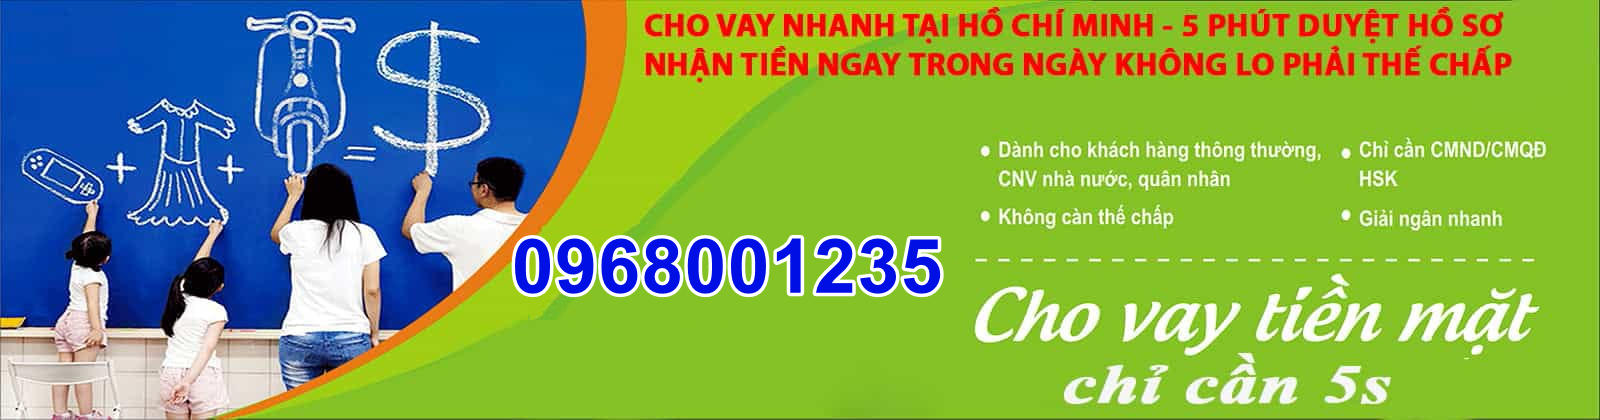
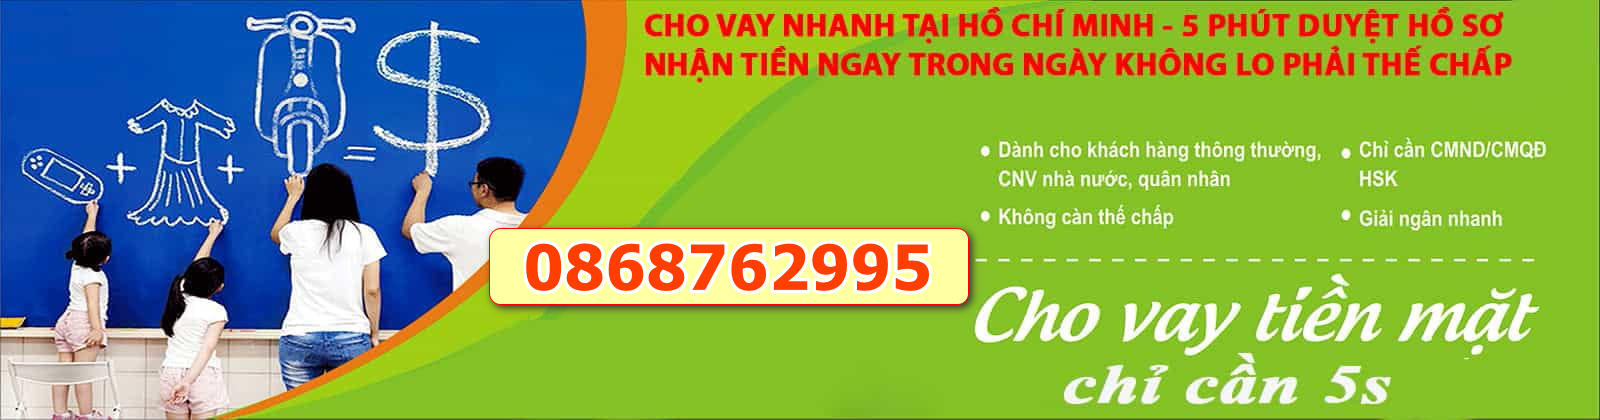
u

Changed region(s): [[0.2812, 0.5262, 0.625, 0.7429]]

diff --git a/cmnd.html b/cmnd.html
@@ -86,7 +86,7 @@ height="0" width="0" style="display:none;visibility:hidden"></iframe></noscript>
 
                             <div class="hotline-top">
 
-                                Hotline: <a  href="tel:+84968001235">0968001235</a>
+                                Hotline: <a  href="tel:+84868762995">0868762995</a>
 
 
 
@@ -1464,7 +1464,7 @@ height="0" width="0" style="display:none;visibility:hidden"></iframe></noscript>
 
                     <h2 class="title-box">
                        
-                        <a style="color:#f3640a; font-size:24px;"  href="tel:+84968001235">0968001235</a>
+                        <a style="color:#f3640a; font-size:24px;"  href="tel:+84868762995">0868762995</a>
 
                     </h2>
 
@@ -1506,7 +1506,7 @@ height="0" width="0" style="display:none;visibility:hidden"></iframe></noscript>
 <div class="footer">
 
     <center>
-        <a href="tel:+84968001235" style="font-size: 45px;color: #fd0000;"><strong>0968001235</strong></a>
+        <a href="tel:+84868762995" style="font-size: 45px;color: #fd0000;"><strong>0868762995</strong></a>
       <br />
       <a href="tel:+84789349998" style="font-size: 45px;color: #fd0000;"><strong>0789349998</strong></a>
     </center>   
@@ -1525,7 +1525,7 @@ height="0" width="0" style="display:none;visibility:hidden"></iframe></noscript>
 
             <div id="Module73">Cho vay tiền nhanh không cần thế chấp tại TP.Hồ Chí Minh<br>
 
-                Điện thoại: <a href="tel:+84968001235"><strong>0968001235</strong></a> 
+                Điện thoại: <a href="tel:+84868762995"><strong>0868762995</strong></a> 
 
                 <br>Cho vay tiền nhanh không cần thế chấp tại TP.Hồ Chí Minh chỉ cần 5s là bạn có ngay tiền mặt không tốn thời gian
 
@@ -1550,7 +1550,7 @@ height="0" width="0" style="display:none;visibility:hidden"></iframe></noscript>
 
 
     <i class="fa fa-phone"></i> 
-    <a  href="tel:+84968001235"><strong>0968001235</strong></a>
+    <a  href="tel:+84868762995"><strong>0868762995</strong></a>
 
    
 
@@ -1602,7 +1602,7 @@ height="0" width="0" style="display:none;visibility:hidden"></iframe></noscript>
 
                       <div id="Module79">
 
-                         <p style="text-align:start">Quý khách có nhu cầu vay vốn, tín dụng xin liên hệ Hotline: <a href="tel:+84968001235"><strong>0968001235</strong></a> | <a href="tel:+84968001235"><strong>0968001235</strong></a> hoặc điền thông tin vào form dưới đây nhé.</p>
+                         <p style="text-align:start">Quý khách có nhu cầu vay vốn, tín dụng xin liên hệ Hotline: <a href="tel:+84868762995"><strong>0868762995</strong></a> | <a href="tel:+84868762995"><strong>0868762995</strong></a> hoặc điền thông tin vào form dưới đây nhé.</p>
 
                      </div>
 
@@ -1666,7 +1666,7 @@ height="0" width="0" style="display:none;visibility:hidden"></iframe></noscript>
 
             </div> -->
 
-            <div class="Hotline-popup"><span><a href="tel:+84968001235"><strong>0968001235</strong></a>  <a href="tel:+84968001235"><strong>0968001235</strong></a></span></div>
+            <div class="Hotline-popup"><span><a href="tel:+84868762995"><strong>0868762995</strong></a>  <a href="tel:+84868762995"><strong>0868762995</strong></a></span></div>
 
         </div>
 

diff --git a/lien-he.html b/lien-he.html
@@ -86,7 +86,7 @@ height="0" width="0" style="display:none;visibility:hidden"></iframe></noscript>
 
                             <div class="hotline-top">
 
-                                Hotline: <a href="tel:+84968001235">0968001235</a>
+                                Hotline: <a href="tel:+84868762995">0868762995</a>
 
 
 
@@ -1464,7 +1464,7 @@ height="0" width="0" style="display:none;visibility:hidden"></iframe></noscript>
 
                     <h2 class="title-box">
                        
-                        <a style="color:#f3640a; font-size:24px;" href="tel:+84968001235">0968001235</a>
+                        <a style="color:#f3640a; font-size:24px;" href="tel:+84868762995">0868762995</a>
 
                     </h2>
 
@@ -1506,7 +1506,7 @@ height="0" width="0" style="display:none;visibility:hidden"></iframe></noscript>
 <div class="footer">
 
      <center>
-        <a href="tel:+84968001235" style="font-size: 45px;color: #fd0000;"><strong>0968001235</strong></a>
+        <a href="tel:+84868762995" style="font-size: 45px;color: #fd0000;"><strong>0868762995</strong></a>
       <br />
       <a href="tel:+84789349998" style="font-size: 45px;color: #fd0000;"><strong>0789349998</strong></a>
     </center>   
@@ -1525,7 +1525,7 @@ height="0" width="0" style="display:none;visibility:hidden"></iframe></noscript>
 
             <div id="Module73">Cho vay tiền nhanh không cần thế chấp tại TP.Hồ Chí Minh<br>
 
-                Điện thoại: <a href="tel:+84968001235"><strong>0968001235</strong></a> 
+                Điện thoại: <a href="tel:+84868762995"><strong>0868762995</strong></a> 
 
                 <br>Cho vay tiền nhanh không cần thế chấp tại TP.Hồ Chí Minh chỉ cần 5s là bạn có ngay tiền mặt không tốn thời gian
 
@@ -1550,7 +1550,7 @@ height="0" width="0" style="display:none;visibility:hidden"></iframe></noscript>
 
 
     <i class="fa fa-phone"></i> 
-    <a href="tel:+84968001235"><strong>0968001235</strong></a>
+    <a href="tel:+84868762995"><strong>0868762995</strong></a>
 
    
 
@@ -1601,7 +1601,7 @@ height="0" width="0" style="display:none;visibility:hidden"></iframe></noscript>
 
                       <div id="Module79">
 
-                         <p style="text-align:start">Quý khách có nhu cầu vay vốn, tín dụng xin liên hệ Hotline: <a href="tel:+84968001235"><strong>0968001235</strong></a> | <a href="tel:+84968001235"><strong>0968001235</strong></a> hoặc điền thông tin vào form dưới đây nhé.</p>
+                         <p style="text-align:start">Quý khách có nhu cầu vay vốn, tín dụng xin liên hệ Hotline: <a href="tel:+84868762995"><strong>0868762995</strong></a> | <a href="tel:+84868762995"><strong>0868762995</strong></a> hoặc điền thông tin vào form dưới đây nhé.</p>
 
                      </div>
 
@@ -1665,7 +1665,7 @@ height="0" width="0" style="display:none;visibility:hidden"></iframe></noscript>
 
             </div> -->
 
-            <div class="Hotline-popup"><span><a href="tel:+84968001235"><strong>0968001235</strong></a>  <a href="tel:+84968001235"><strong>0968001235</strong></a></span></div>
+            <div class="Hotline-popup"><span><a href="tel:+84868762995"><strong>0868762995</strong></a>  <a href="tel:+84868762995"><strong>0868762995</strong></a></span></div>
 
         </div>
 

diff --git a/so-ho-khau.html b/so-ho-khau.html
@@ -82,7 +82,7 @@ height="0" width="0" style="display:none;visibility:hidden"></iframe></noscript>
 
                             <div class="hotline-top">
 
-                                Hotline: <a href="tel:+84968001235">0968001235</a>
+                                Hotline: <a href="tel:+84868762995">0868762995</a>
 
 
 
@@ -1460,7 +1460,7 @@ height="0" width="0" style="display:none;visibility:hidden"></iframe></noscript>
 
                     <h2 class="title-box">
                        
-                        <a style="color:#f3640a; font-size:24px;" href="tel:+84968001235">0968001235</a>
+                        <a style="color:#f3640a; font-size:24px;" href="tel:+84868762995">0868762995</a>
 
                     </h2>
 
@@ -1502,7 +1502,7 @@ height="0" width="0" style="display:none;visibility:hidden"></iframe></noscript>
 <div class="footer">
 
      <center>
-        <a href="tel:+84968001235" style="font-size: 45px;color: #fd0000;"><strong>0968001235</strong></a>
+        <a href="tel:+84868762995" style="font-size: 45px;color: #fd0000;"><strong>0868762995</strong></a>
       <br />
       <a href="tel:+84789349998" style="font-size: 45px;color: #fd0000;"><strong>0789349998</strong></a>
     </center>   
@@ -1521,7 +1521,7 @@ height="0" width="0" style="display:none;visibility:hidden"></iframe></noscript>
 
             <div id="Module73">Cho vay tiền nhanh không cần thế chấp tại TP.Hồ Chí Minh<br>
 
-                Điện thoại: <a href="tel:+84968001235"><strong>0968001235</strong></a> 
+                Điện thoại: <a href="tel:+84868762995"><strong>0868762995</strong></a> 
 
                 <br>Cho vay tiền nhanh không cần thế chấp tại TP.Hồ Chí Minh chỉ cần 5s là bạn có ngay tiền mặt không tốn thời gian
 
@@ -1546,7 +1546,7 @@ height="0" width="0" style="display:none;visibility:hidden"></iframe></noscript>
 
 
     <i class="fa fa-phone"></i> 
-    <a href="tel:+84968001235"><strong>0968001235</strong></a>
+    <a href="tel:+84868762995"><strong>0868762995</strong></a>
 
    
 
@@ -1598,7 +1598,7 @@ height="0" width="0" style="display:none;visibility:hidden"></iframe></noscript>
 
                       <div id="Module79">
 
-                         <p style="text-align:start">Quý khách có nhu cầu vay vốn, tín dụng xin liên hệ Hotline: <a href="tel:+84968001235"><strong>0968001235</strong></a> | <a href="tel:+84968001235"><strong>0968001235</strong></a> hoặc điền thông tin vào form dưới đây nhé.</p>
+                         <p style="text-align:start">Quý khách có nhu cầu vay vốn, tín dụng xin liên hệ Hotline: <a href="tel:+84868762995"><strong>0868762995</strong></a> | <a href="tel:+84868762995"><strong>0868762995</strong></a> hoặc điền thông tin vào form dưới đây nhé.</p>
 
                      </div>
 
@@ -1662,7 +1662,7 @@ height="0" width="0" style="display:none;visibility:hidden"></iframe></noscript>
 
             </div> -->
 
-            <div class="Hotline-popup"><span><a href="tel:+84968001235"><strong>0968001235</strong></a>  <a href="tel:+84968001235"><strong>0968001235</strong></a></span></div>
+            <div class="Hotline-popup"><span><a href="tel:+84868762995"><strong>0868762995</strong></a>  <a href="tel:+84868762995"><strong>0868762995</strong></a></span></div>
 
         </div>
 

diff --git a/index.html b/index.html
@@ -78,7 +78,7 @@ height="0" width="0" style="display:none;visibility:hidden"></iframe></noscript>
 
                             <div class="hotline-top">
 
-                                Hotline: <a href="tel:+84968001235">0968001235</a>
+                                Hotline: <a href="tel:+84868762995">0868762995</a>
 
 
 
@@ -1456,7 +1456,7 @@ height="0" width="0" style="display:none;visibility:hidden"></iframe></noscript>
 
                     <h2 class="title-box">
                        
-                        <a style="color:#f3640a; font-size:24px;" href="tel:+84968001235">0968001235</a>
+                        <a style="color:#f3640a; font-size:24px;" href="tel:+84868762995">0868762995</a>
 
                     </h2>
 
@@ -1498,7 +1498,7 @@ height="0" width="0" style="display:none;visibility:hidden"></iframe></noscript>
 <div class="footer">
 
     <center>
-        <a href="tel:+84968001235" style="font-size: 45px;color: #fd0000;"><strong>0968001235</strong></a>
+        <a href="tel:+84868762995" style="font-size: 45px;color: #fd0000;"><strong>0868762995</strong></a>
       <br />
       <a href="tel:+84789349998" style="font-size: 45px;color: #fd0000;"><strong>0789349998</strong></a>
     </center>   
@@ -1517,7 +1517,7 @@ height="0" width="0" style="display:none;visibility:hidden"></iframe></noscript>
 
             <div id="Module73">Cho vay tiền nhanh không cần thế chấp tại TP.Hồ Chí Minh<br>
 
-                Điện thoại: <a href="tel:+84968001235"><strong>0968001235</strong></a> 
+                Điện thoại: <a href="tel:+84868762995"><strong>0868762995</strong></a> 
 
                 <br>Cho vay tiền nhanh không cần thế chấp tại TP.Hồ Chí Minh chỉ cần 5s là bạn có ngay tiền mặt không tốn thời gian
 
@@ -1540,7 +1540,7 @@ height="0" width="0" style="display:none;visibility:hidden"></iframe></noscript>
 
 
     <i class="fa fa-phone"></i> 
-    <a href="tel:+84968001235"><strong>0968001235</strong></a>
+    <a href="tel:+84868762995"><strong>0868762995</strong></a>
 
    
 
@@ -1592,7 +1592,7 @@ height="0" width="0" style="display:none;visibility:hidden"></iframe></noscript>
 
                       <div id="Module79">
 
-                         <p style="text-align:start">Quý khách có nhu cầu vay vốn, tín dụng xin liên hệ Hotline: <a href="tel:+84968001235"><strong>0968001235</strong></a> | <a href="tel:+84968001235"><strong>0968001235</strong></a> hoặc điền thông tin vào form dưới đây nhé.</p>
+                         <p style="text-align:start">Quý khách có nhu cầu vay vốn, tín dụng xin liên hệ Hotline: <a href="tel:+84868762995"><strong>0868762995</strong></a> | <a href="tel:+84868762995"><strong>0868762995</strong></a> hoặc điền thông tin vào form dưới đây nhé.</p>
 
                      </div>
 
@@ -1656,7 +1656,7 @@ height="0" width="0" style="display:none;visibility:hidden"></iframe></noscript>
 
             </div> -->
 
-            <div class="Hotline-popup"><span><a href="tel:+84968001235"><strong>0968001235</strong></a>  <a href="tel:+84968001235"><strong>0968001235</strong></a></span></div>
+            <div class="Hotline-popup"><span><a href="tel:+84868762995"><strong>0868762995</strong></a>  <a href="tel:+84868762995"><strong>0868762995</strong></a></span></div>
 
         </div>
 
